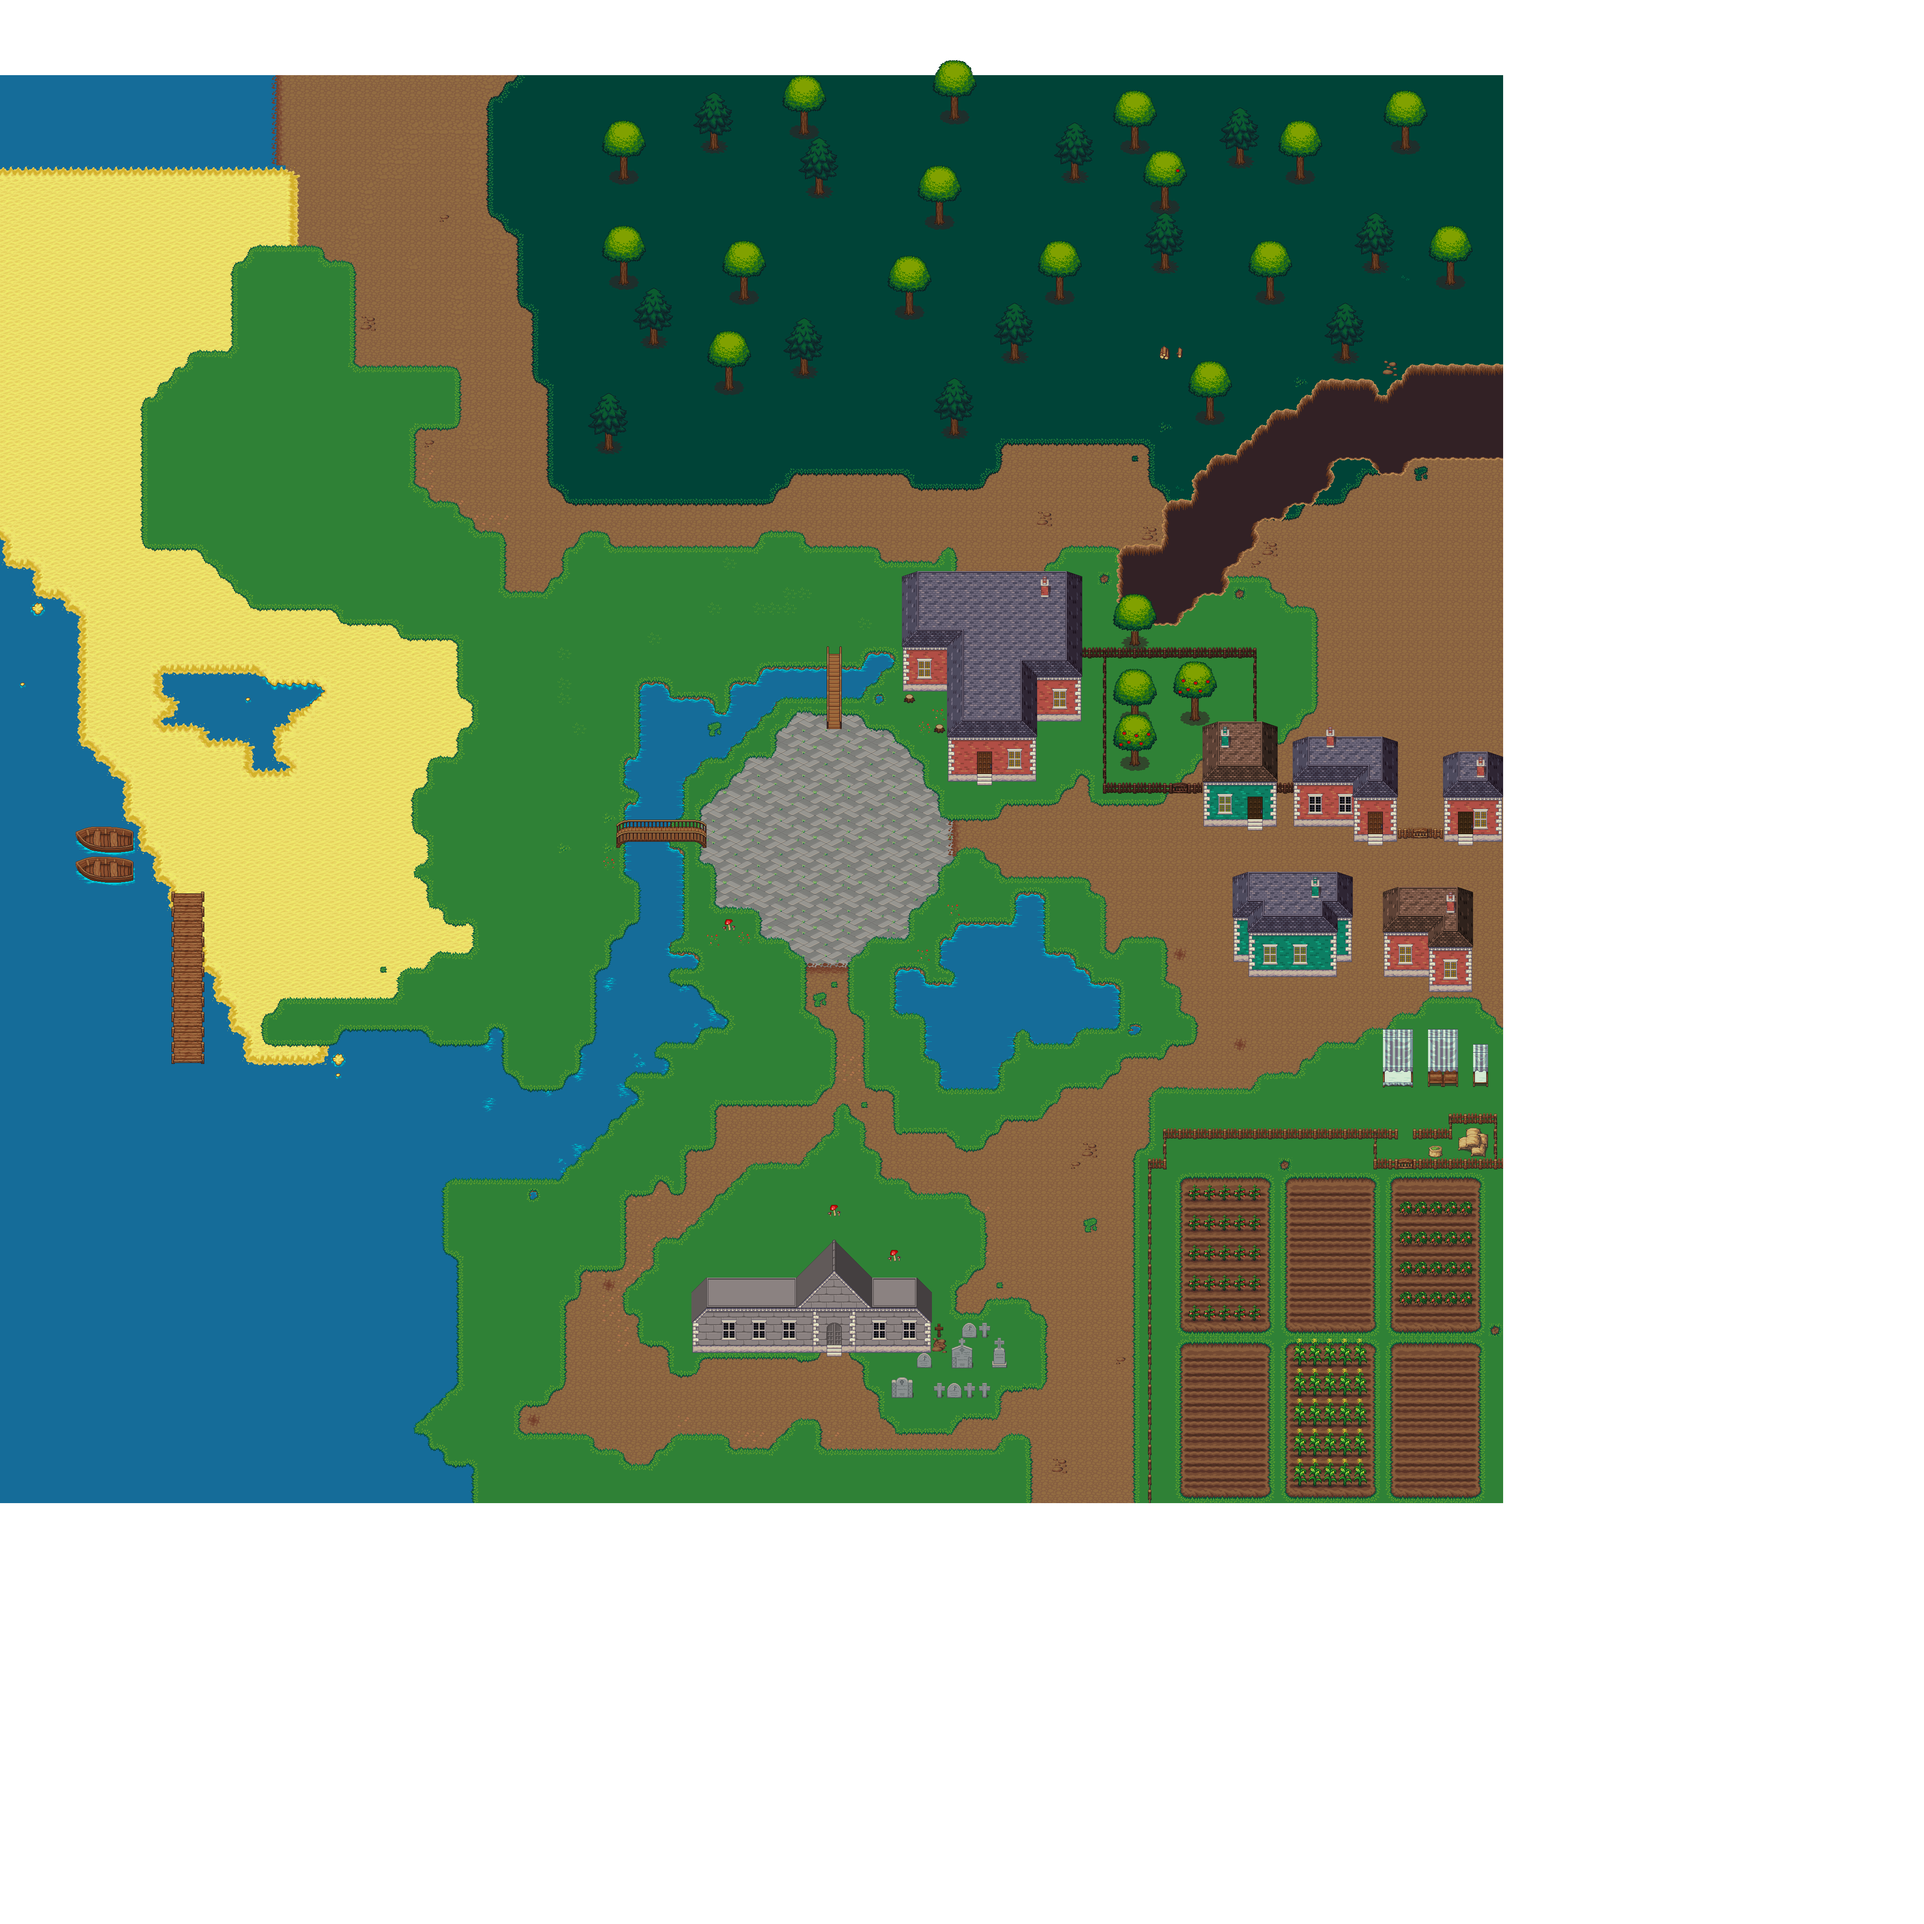
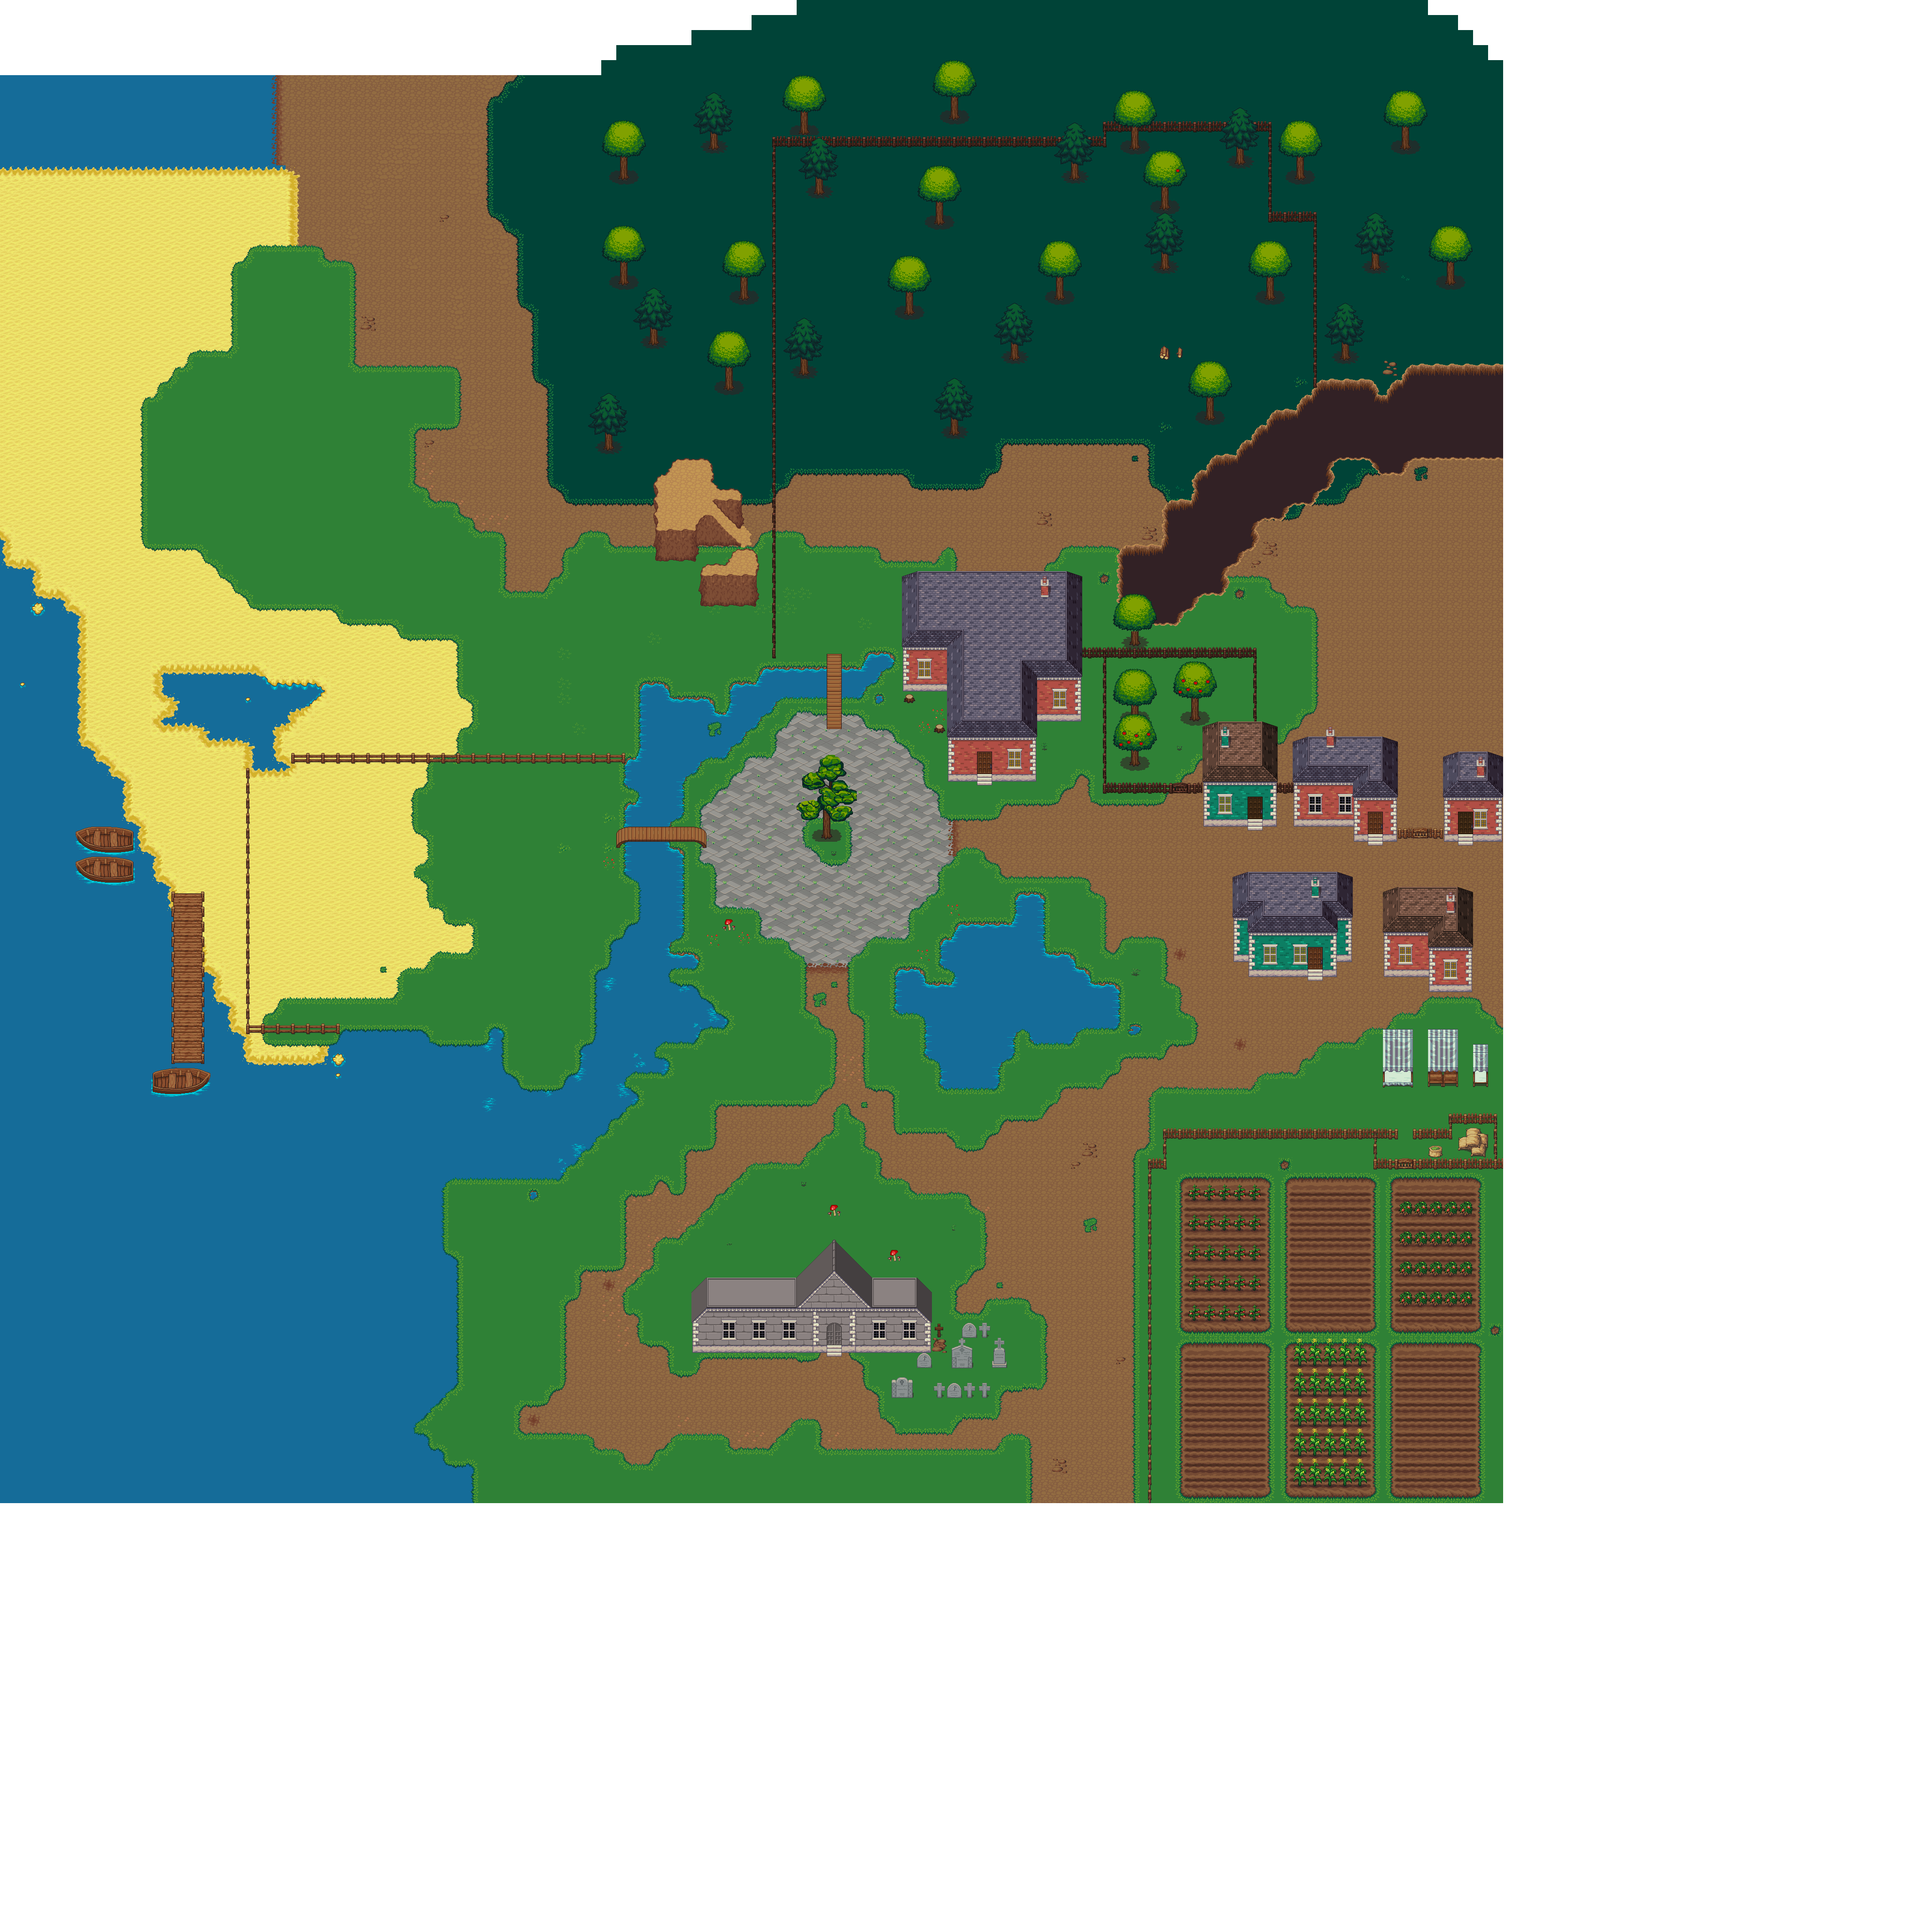
More work on hometown

diff --git a/ZombieLord/src/com/talas777/ZombieLord/Levels/HomeTown.java b/ZombieLord/src/com/talas777/ZombieLord/Levels/HomeTown.java
@@ -185,6 +185,30 @@ public class HomeTown extends Level {
 			groundBody.createFixture(environmentShape, 0);
 			environmentShape.dispose();
 		}
+		{ // bottom left house
+			ChainShape environmentShape = new ChainShape();
+			
+
+			Vector2[] vertices = vectorize(
+					new float[]{2658,2658,2627,2626,2657,2848,2880,2876,2845,2845,2816,2816,2784,2784},
+					new float[]{1121,1154,1154,1332,1342,1342,1334,1152,1152,1120,1120,1152,1152,1120});
+
+			environmentShape.createLoop(vertices);
+			groundBody.createFixture(environmentShape, 0);
+			environmentShape.dispose();
+		}
+		{ // big tree (at square)
+			ChainShape environmentShape = new ChainShape();
+			
+
+			Vector2[] vertices = vectorize(
+					new float[]{1771,1750,1702,1698,1709,1750,1766,1792,1824,1824,1816,1797},
+					new float[]{1417,1417,1439,1480,1539,1583,1592,1580,1515,1496,1469,1453});
+
+			environmentShape.createLoop(vertices);
+			groundBody.createFixture(environmentShape, 0);
+			environmentShape.dispose();
+		}
 
 	}
 

diff --git a/ZombieLord/src/com/talas777/ZombieLord/MonsterArea.java b/ZombieLord/src/com/talas777/ZombieLord/MonsterArea.java
@@ -53,7 +53,9 @@ public class MonsterArea {
 	}
 	
 	public MonsterSetup getRandomSetup(){
-		//TODO: getRandomSetup, make it random (with weights)
-		return monsterSetups.getFirst();
+		// TODO: roulette wheel here..
+		
+		
+		return monsterSetups.get((int) Math.random()*monsterSetups.size());
 	}
 }
